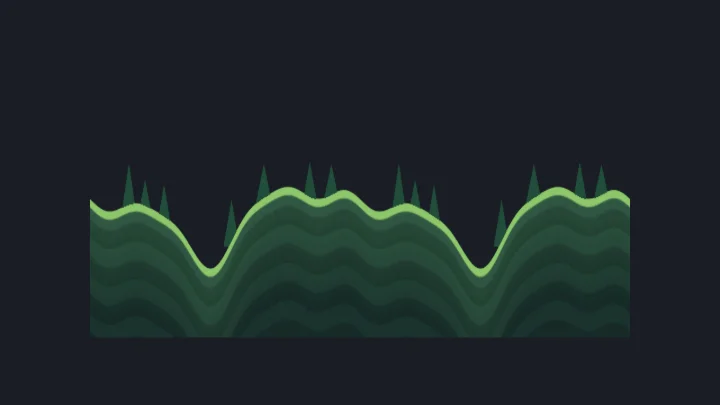
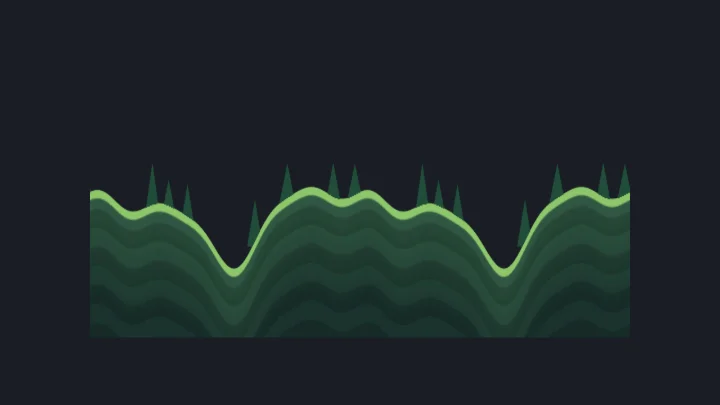
촬영: Unity 사진에서 알파를 버린다, 알파 혼합 표본 다시 촬영
알파 혼합 물체가 렌더 타깃 알파를 1 보다 작게 남겨(수면 191~215) 밝은 페이지 위에서 Unity 사진이 바래 보였다.
RGB24 로 읽어 저장하고, 알파 혼합을 쓰는 표본 11개를 다시 찍었다 (바뀐 사진 7개 표본).
plan 17절: 1차 마무리 기록.

Changed region(s): [[0.1222, 0.4148, 0.8861, 0.6815]]

diff --git a/Assets/Editor/ShaderGallery/SgCapture.cs b/Assets/Editor/ShaderGallery/SgCapture.cs
@@ -71,7 +71,9 @@ namespace ShaderGallery.EditorTools
 
                 RenderTexture previous = RenderTexture.active;
                 RenderTexture.active = renderTexture;
-                read = new Texture2D(width, height, TextureFormat.RGBA32, false);
+                // 화면 사진이므로 알파는 버린다. 알파 혼합 물체는 렌더 타깃의 알파까지 섞어(SrcAlpha OneMinusSrcAlpha) 1 보다 작게 남기고,
+                // 그대로 PNG 에 넣으면 밝은 페이지 위에서 사진이 바래 보인다 (water-wave-surface 에서 발견, 2026-11-03).
+                read = new Texture2D(width, height, TextureFormat.RGB24, false);
                 read.ReadPixels(new Rect(0, 0, width, height), 0, 0);
                 read.Apply();
                 RenderTexture.active = previous;
